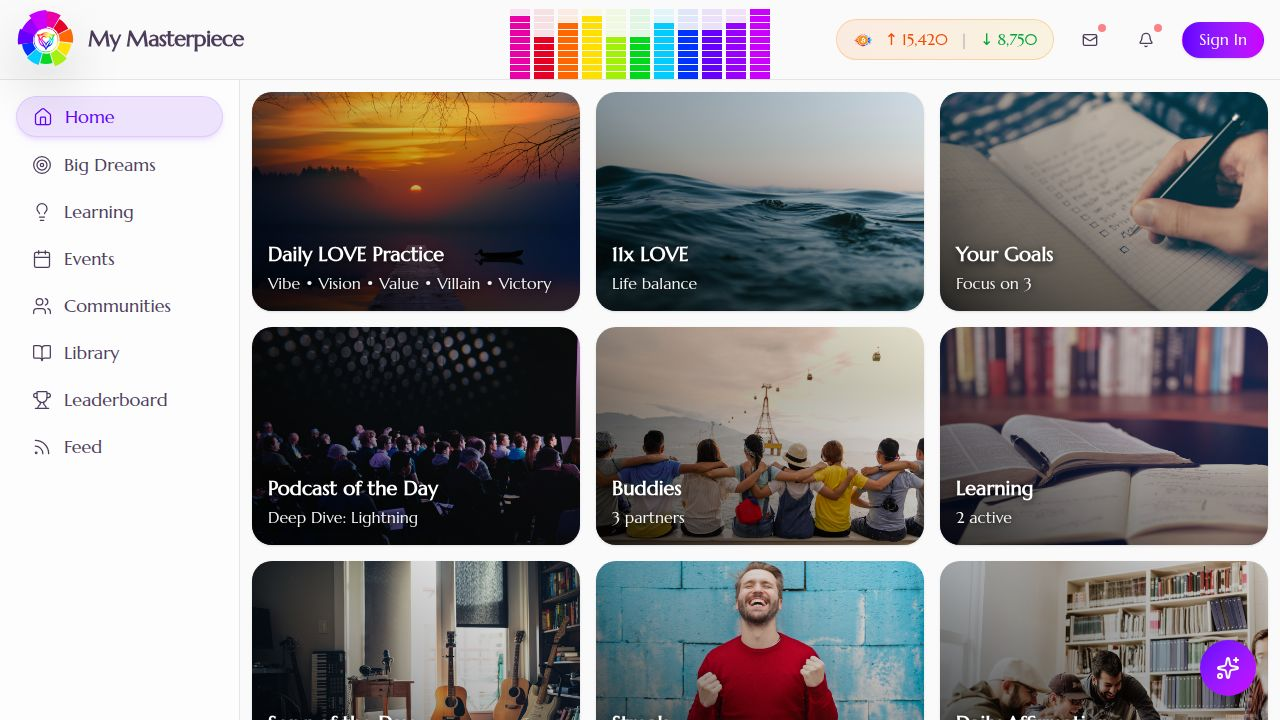
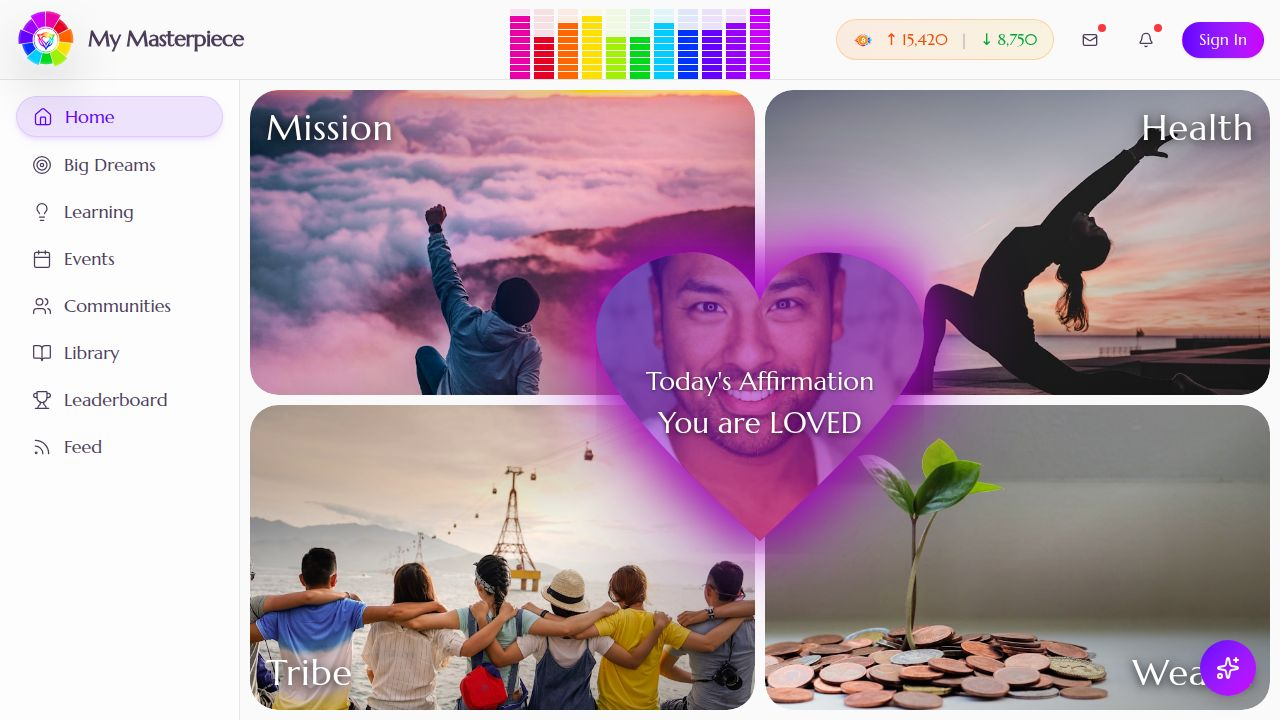
Update dashboard layout and card functionality for enhanced user experience
Adjusted grid layout and card styles in `heart-dashboard.tsx` to implement 10px padding and gap, and applied `rounded-xl` to FlipCard components.

Replit-Commit-Author: Agent
Replit-Commit-Session-Id: 15c73db4-6315-4943-a193-2cb3690c1701
Replit-Commit-Checkpoint-Type: full_checkpoint
Replit-Commit-Event-Id: f6aa2b22-246e-4a29-9d58-4acec2d5cf0b
Replit-Commit-Screenshot-Url: https://storage.googleapis.com/screenshot-production-us-central1/fc1445fb-c5b4-4e37-95c8-dc1683ddab51/15c73db4-6315-4943-a193-2cb3690c1701/BpkIvqi
Replit-Helium-Checkpoint-Created: true

diff --git a/client/src/components/dashboard/heart-dashboard.tsx b/client/src/components/dashboard/heart-dashboard.tsx
@@ -24,12 +24,12 @@ function FlipCard({ title, position, imageUrl, quote, progress, onClick, testId 
 
   return (
     <div 
-      className="relative cursor-pointer overflow-hidden"
+      className="relative cursor-pointer overflow-hidden rounded-xl h-full w-full"
       style={{ perspective: "1000px" }}
       data-testid={testId}
     >
       <motion.div
-        className="w-full h-full"
+        className="w-full h-full relative"
         animate={{ rotateY: isFlipped ? 180 : 0 }}
         transition={{ duration: 0.6, ease: "easeInOut" }}
         style={{ transformStyle: "preserve-3d" }}
@@ -37,7 +37,7 @@ function FlipCard({ title, position, imageUrl, quote, progress, onClick, testId 
       >
         {/* Front - Beautiful Photo */}
         <div 
-          className="absolute inset-0"
+          className="absolute inset-0 rounded-xl overflow-hidden"
           style={{ 
             backfaceVisibility: "hidden",
             backgroundImage: `url(${imageUrl})`,
@@ -60,7 +60,7 @@ function FlipCard({ title, position, imageUrl, quote, progress, onClick, testId 
 
         {/* Back - Quote + Stats */}
         <div 
-          className="absolute inset-0 flex flex-col items-center justify-center p-4"
+          className="absolute inset-0 flex flex-col items-center justify-center p-4 rounded-xl overflow-hidden"
           style={{ 
             backfaceVisibility: "hidden",
             transform: "rotateY(180deg)",
@@ -291,11 +291,10 @@ export function HeartDashboard() {
   ];
 
   return (
-    <div className="relative w-full h-full overflow-hidden bg-background">
+    <div className="relative w-full h-full overflow-hidden bg-background p-[10px]">
       {/* 4 Pillar Flip Cards */}
       <div 
-        className="grid grid-cols-2 grid-rows-2 w-full h-full"
-        style={{ gap: "2px" }}
+        className="grid grid-cols-2 grid-rows-2 w-full h-full gap-[10px]"
       >
         {pillars.map((pillar) => (
           <FlipCard
